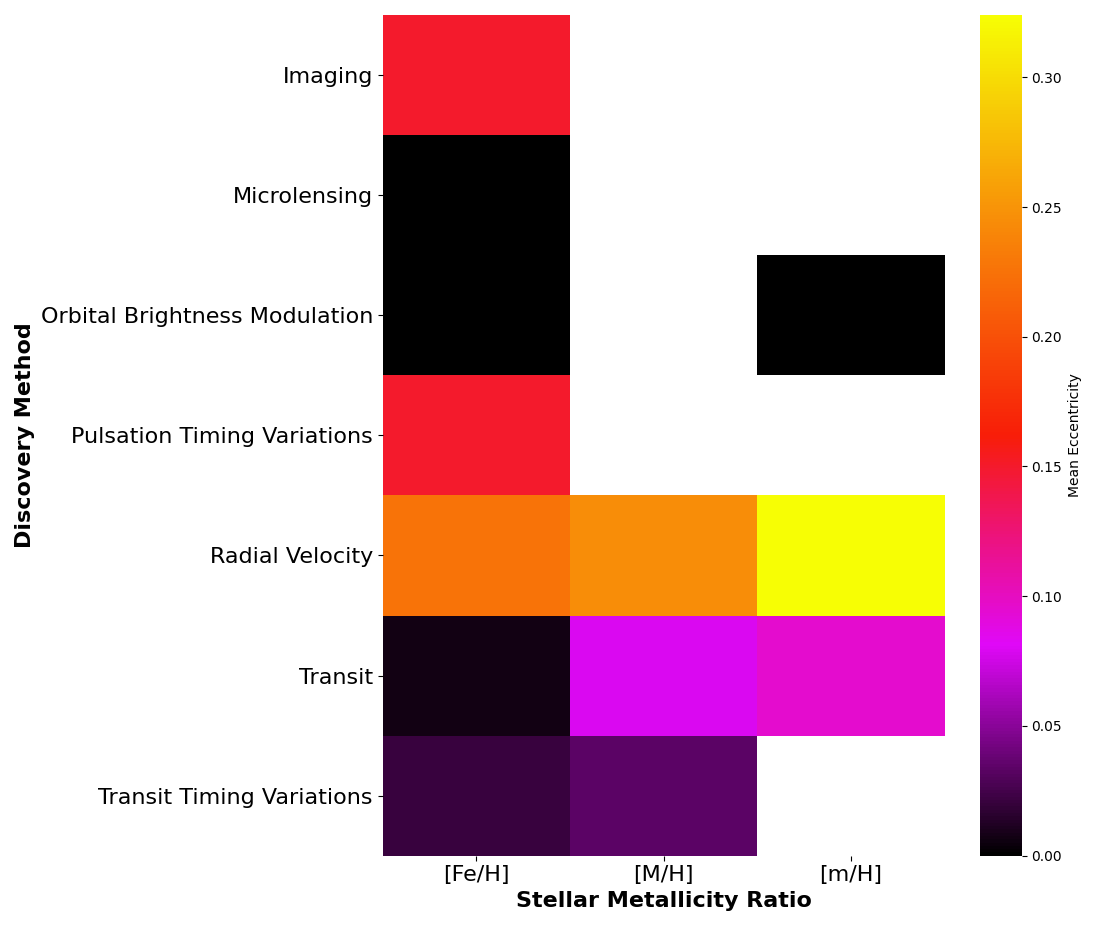
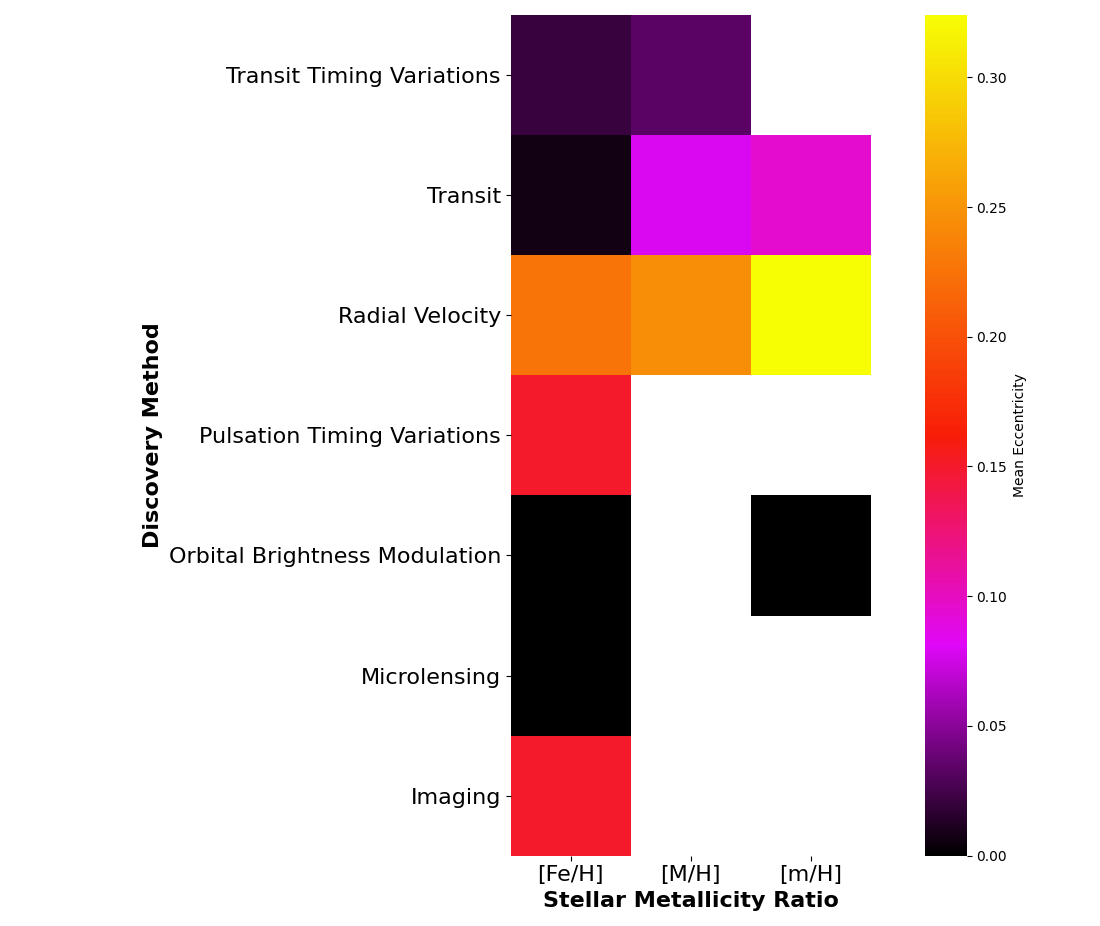
heatmap cat fixes

diff --git a/Plot_types/Heatmap/Heatmap_Categoric/Heatmap_Categoric_Python_seaborn.py b/Plot_types/Heatmap/Heatmap_Categoric/Heatmap_Categoric_Python_seaborn.py
@@ -50,8 +50,10 @@ _ = sns.heatmap(
     cbar = True,
     cmap = my_palette,
     cbar_kws = {"label": "Mean " + z_var_name},
+    square = True,
     ax = ax
 )
+_ = plt.ylim(0, len(y_vals))
 _ = ax.set_xlabel(
     x_var_name,
     fontsize = 16,

diff --git a/Plot_types/Heatmap/Heatmap_Categoric/Heatmap_Categoric_Python_matplotlib.py b/Plot_types/Heatmap/Heatmap_Categoric/Heatmap_Categoric_Python_matplotlib.py
@@ -46,7 +46,8 @@ fig, ax = plt.subplots(
 )
 im = plt.imshow(
     X = z_vals,
-    aspect = "auto",
+    aspect = "equal",
+    origin = "lower",
     cmap = my_palette
 )
 cbar = fig.colorbar(
